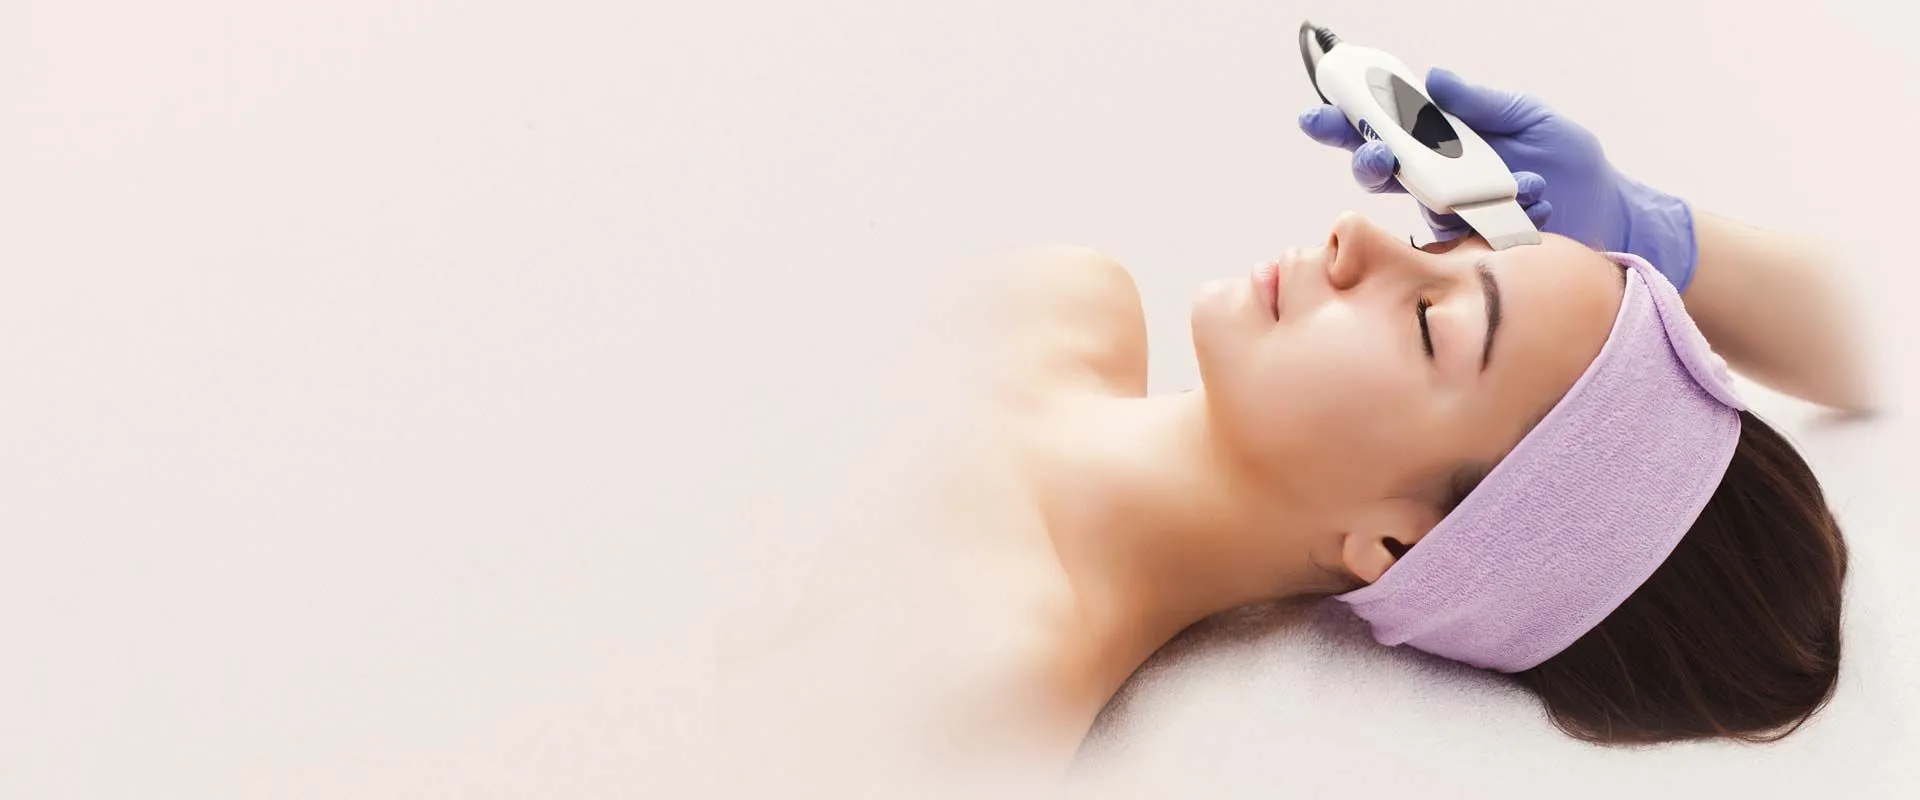
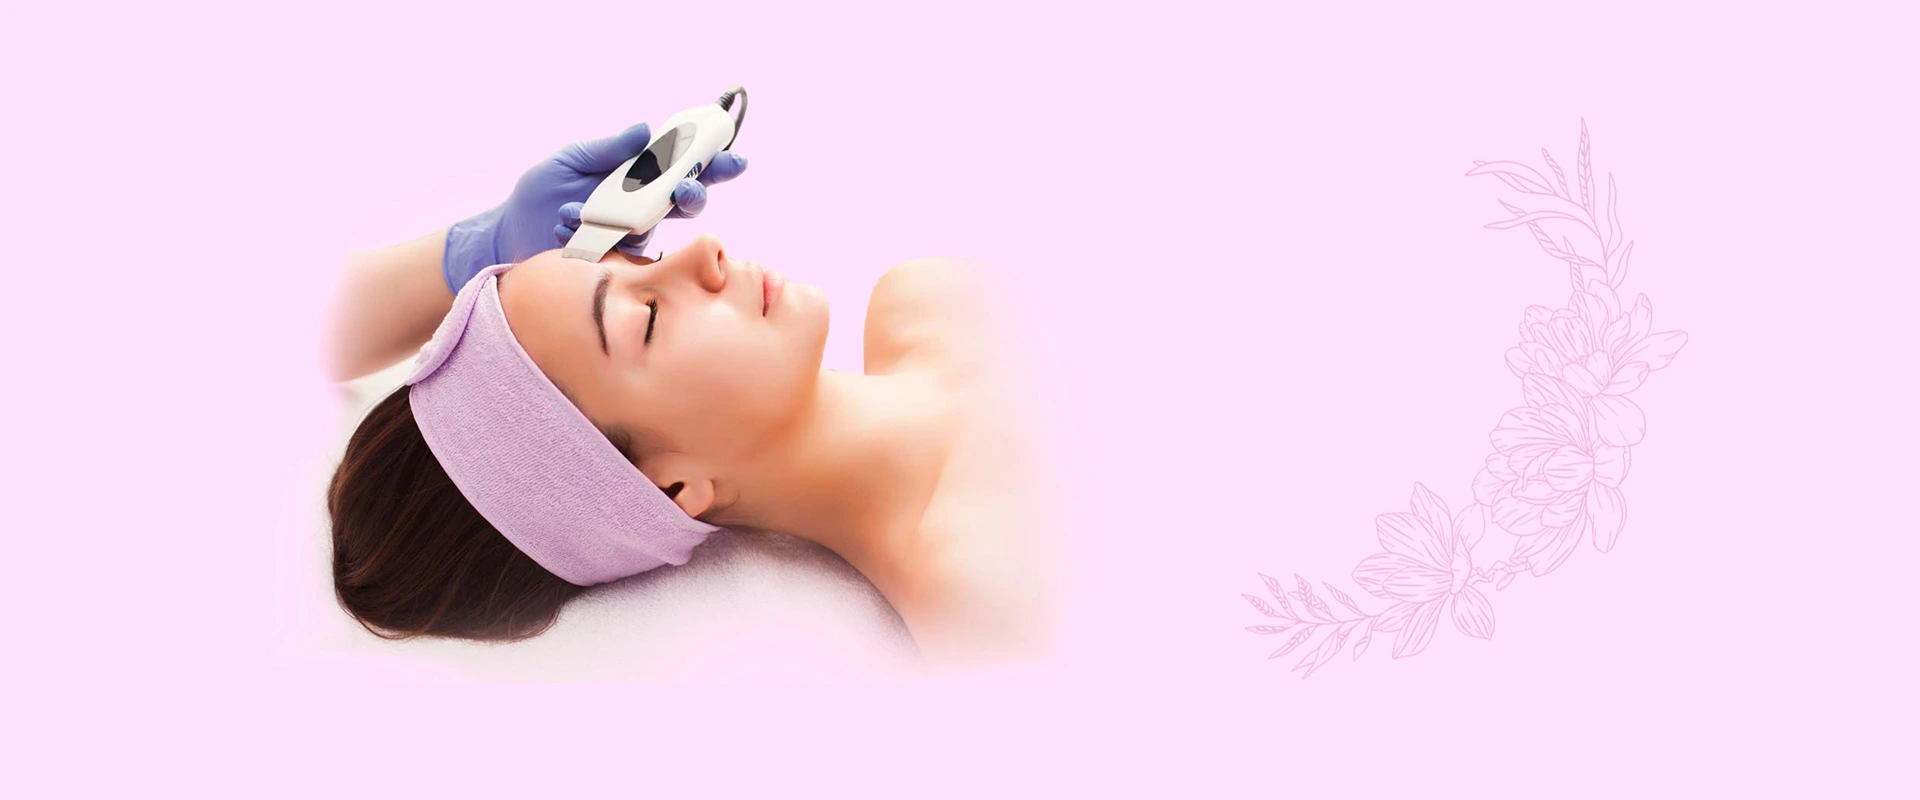
se agregaorn los nuevos BG y se modifico el css para mostrarlos

diff --git a/css/style.css b/css/style.css
@@ -99,16 +99,16 @@ a {text-decoration:none;}
           transform: translateY(15vh);
 }
 .background:nth-child(2) {
-  background-image: url(../img/backgrounds/bg-left-6.2.jpg.webp);
+  background-image: url(../img/backgrounds/bg-2.webp);
 }
 .background:nth-child(3) {
-  background-image: url(../img/backgrounds/bg-right-1.jpg.webp);
+  background-image: url(../img/backgrounds/bg-3.webp);
 }
 .background:nth-child(4) {
-  background-image: url(../img/backgrounds/bg-left-2.jpg.jpg.webp);
+  background-image: url(../img/backgrounds/bg-4.webp);
 }
 .background:nth-child(5) {
-  background-image: url(../img/backgrounds/bg-right-4.jpg.webp);
+  background-image: url(../img/backgrounds/bg-5.webp);
 }
 
 /* Set stacking context of slides */
